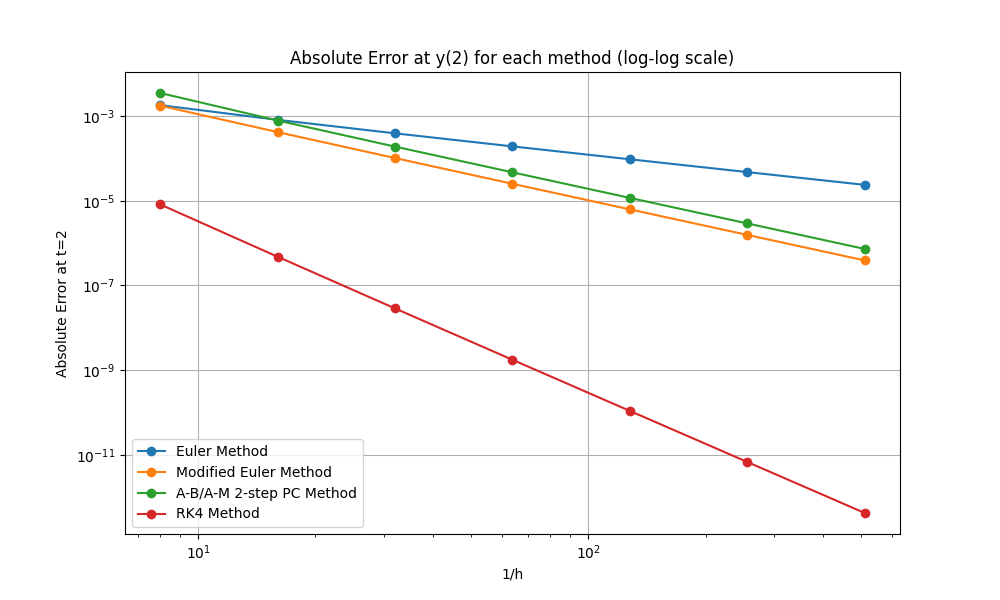
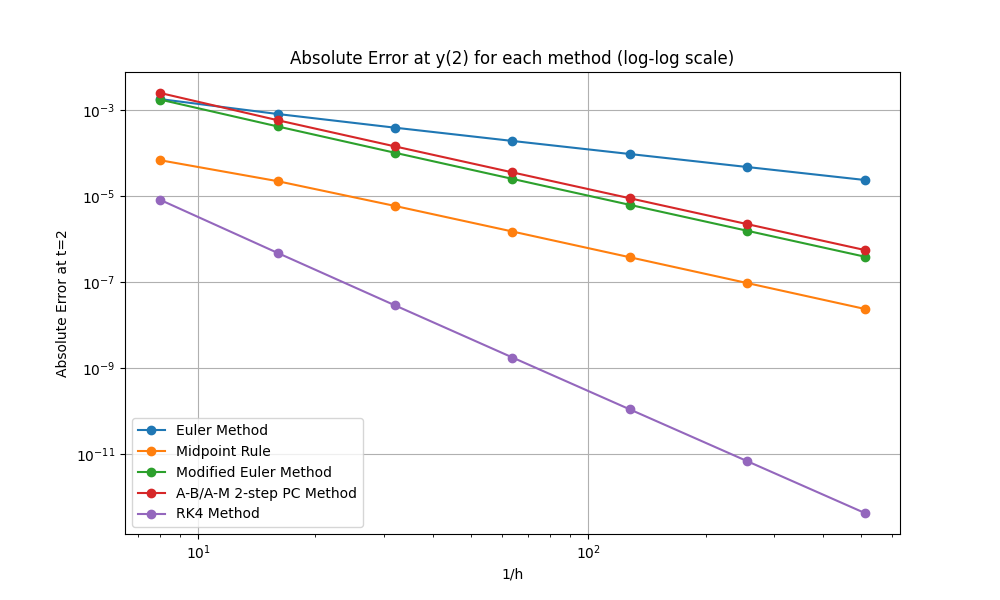
Add midpoint rule and update figures

diff --git a/lab_5/lab5_q3.py b/lab_5/lab5_q3.py
@@ -16,6 +16,7 @@ def dy_dt(y, t):
 def y(t):
     return (t**2)*(np.exp(-t**2))
 
+# Euler's Method
 def euler(h, t):
     y_arr = np.zeros(len(t))
     y_arr[0] = y1
@@ -27,6 +28,20 @@ def euler(h, t):
     
     return y_arr
 
+# Midpoint Rule
+def midpoint_rule(h, t):
+    y_arr = np.zeros(len(t))
+    y_arr[0] = y1
+    y = y1
+    for j in range(len(t)-1):
+        y_mid = y + (h/2) * dy_dt(y, t[j])
+        t_mid = t[j] + h/2
+        y = y + h * dy_dt(y_mid, t_mid)
+        y_arr[j+1] = y
+    
+    return y_arr
+
+# Modified Euler's Method
 def mod_euler(h, t):
     y_arr = np.zeros(len(t))
     y_arr[0] = y1
@@ -57,6 +72,7 @@ def ab_am_2step_pc(h, t):
         y_arr[j+1] = y
     return y_arr
 
+# Runge-Kutta 4th Order Method
 def rk4(h, t):
     y_arr = np.zeros(len(t))
     y_arr[0] = y1
@@ -75,8 +91,7 @@ def rk4(h, t):
     return y_arr
 
 # Create a new figure for comparing Euler methods with different n values
-# Plot exact solution
-t_pts = np.linspace(1, 2, 1000)  # Fine grid for smooth exact solution
+t_pts = np.linspace(1, 2, 1000)
 plt.plot(t_pts, y(t_pts), label='Exact Solution', color='black', linewidth=3)
 for i in range(3, max_n):
     h = 2**(-i)
@@ -86,6 +101,20 @@ for i in range(3, max_n):
 plt.xlabel('t')
 plt.ylabel('y(t)')
 plt.title("Euler's Method vs Exact Solution")
+plt.legend()
+plt.grid()
+plt.show()
+
+# Plot midpoint rule solutions for different n values
+plt.plot(t_pts, y(t_pts), label='Exact Solution', color='black', linewidth=3)
+for i in range(3, max_n):
+    h = 2**(-i)
+    t = np.arange(1, 2 + h, h)
+    midpoint_sol = midpoint_rule(h, t)
+    plt.plot(t, midpoint_sol, label=f'n={i}')
+plt.xlabel('t')
+plt.ylabel('y(t)')
+plt.title("Midpoint Rule vs Exact Solution")
 plt.legend()
 plt.grid()
 plt.show()
@@ -154,6 +183,23 @@ plt.grid(True)
 plt.yscale('log')  # Using log scale for better visibility of errors
 plt.show()
 
+# Midpoint Rule Errors
+plt.figure(figsize=(10, 6))
+for i, n in enumerate(range(3, max_n)):
+    h = 2**(-n)
+    t = np.arange(1, 2 + h, h)
+    exact = y(t)
+    midpoint_sol = midpoint_rule(h, t)
+    midpoint_error = np.abs(midpoint_sol - exact)
+    plt.plot(t, midpoint_error, color=colors[i], label=f'n={n}', alpha=0.7)
+plt.xlabel('t')
+plt.ylabel('Absolute Error')
+plt.title("Midpoint Rule Error vs t for Different n")
+plt.legend()
+plt.grid(True)
+plt.yscale('log')
+plt.show()
+
 # Modified Euler Method Errors
 plt.figure(figsize=(10, 6))
 for i, n in enumerate(range(3, max_n)):
@@ -209,6 +255,7 @@ plt.show()
 n_values = range(3, max_n)
 h_values = [2**(-n) for n in n_values]
 euler_errors_at_2 = []
+midpoint_errors_at_2 = []
 mod_euler_errors_at_2 = []
 ab_am_errors_at_2 = []
 rk4_errors_at_2 = []
@@ -220,6 +267,7 @@ for n in n_values:
     exact = y(t)
     
     euler_errors_at_2.append(np.abs(euler(h, t)[-1] - exact[-1]))
+    midpoint_errors_at_2.append(np.abs(midpoint_rule(h, t)[-1] - exact[-1]))
     mod_euler_errors_at_2.append(np.abs(mod_euler(h, t)[-1] - exact[-1]))
     ab_am_errors_at_2.append(np.abs(ab_am_2step_pc(h, t)[-1] - exact[-1]))
     rk4_errors_at_2.append(np.abs(rk4(h, t)[-1] - exact[-1]))
@@ -228,6 +276,7 @@ for n in n_values:
 plt.figure(figsize=(10, 6))
 h_reciprocal = [1/h for h in h_values]
 plt.loglog(h_reciprocal, euler_errors_at_2, 'o-', label='Euler Method')
+plt.loglog(h_reciprocal, midpoint_errors_at_2, 'o-', label='Midpoint Rule')
 plt.loglog(h_reciprocal, mod_euler_errors_at_2, 'o-', label='Modified Euler Method')
 plt.loglog(h_reciprocal, ab_am_errors_at_2, 'o-', label='A-B/A-M 2-step PC Method')
 plt.loglog(h_reciprocal, rk4_errors_at_2, 'o-', label='RK4 Method')
